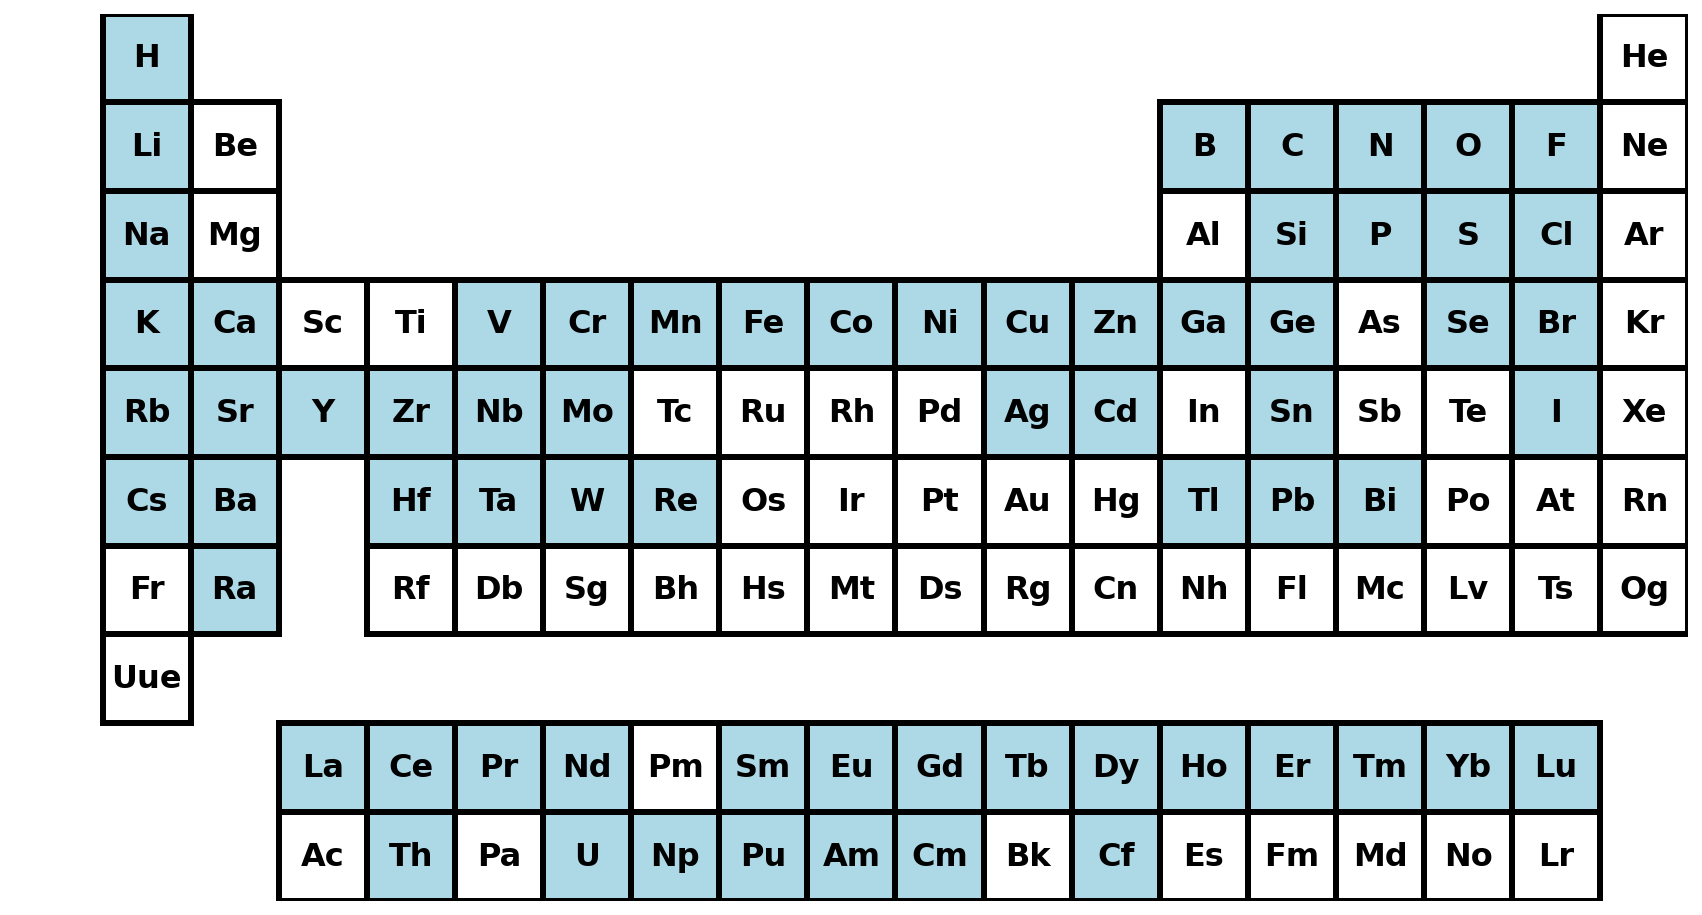
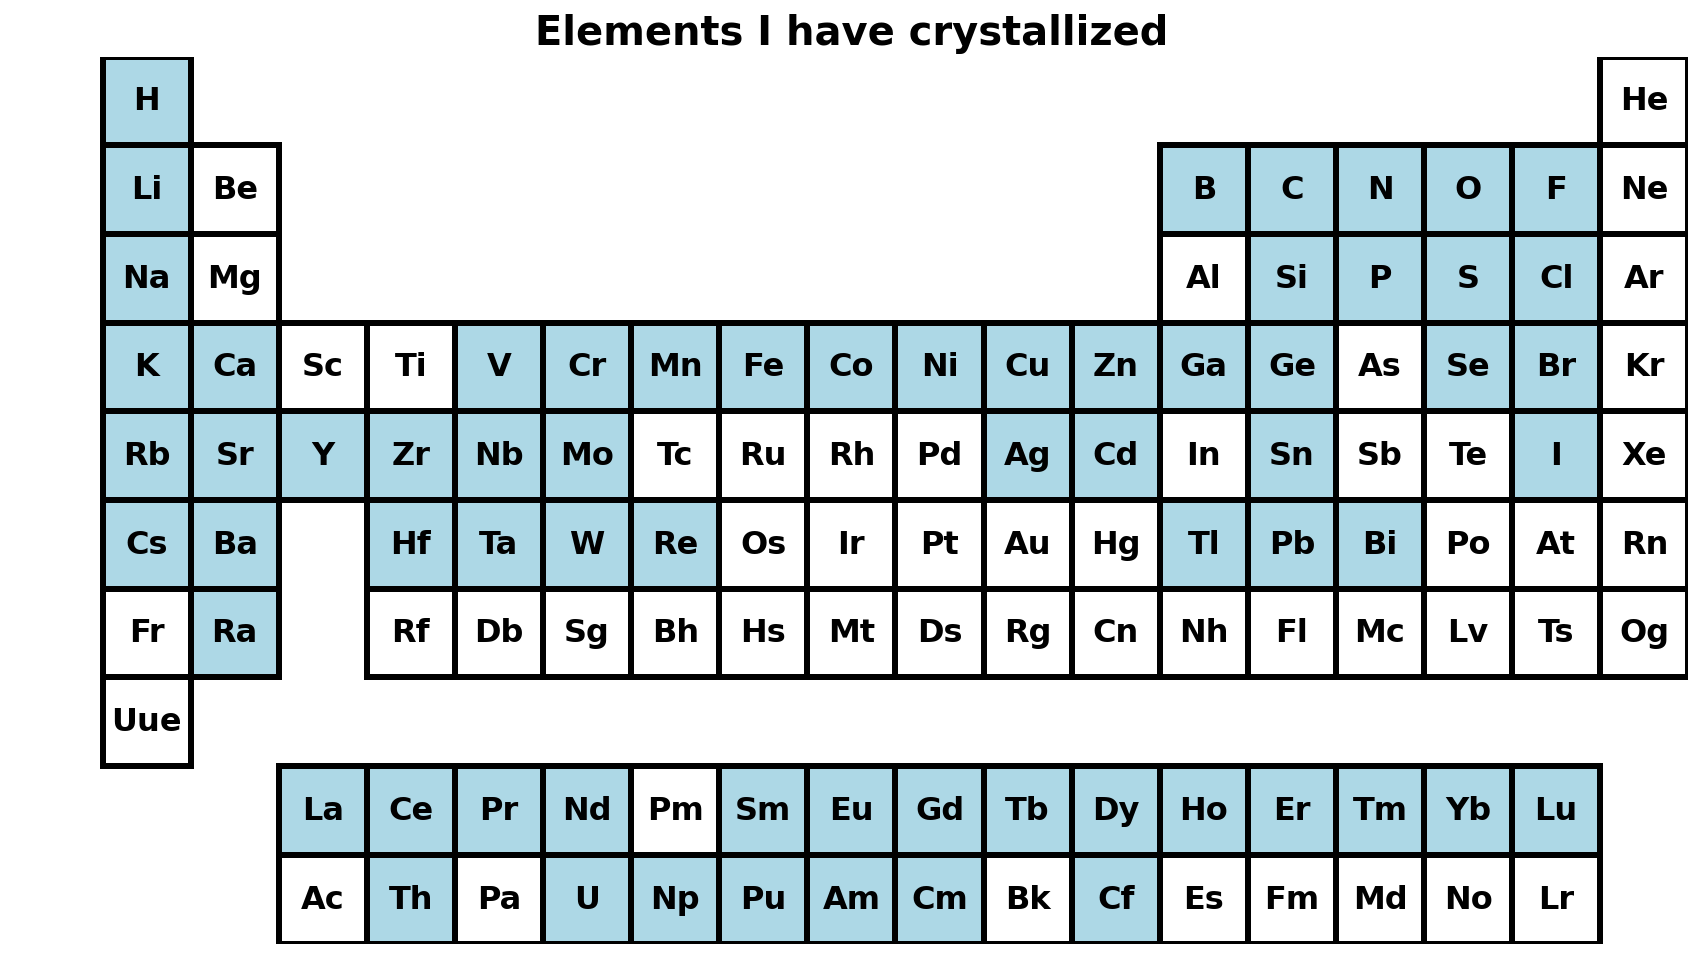
y

diff --git a/_pages/crystallography.md b/_pages/crystallography.md
@@ -16,6 +16,4 @@ Below are links to subpages top further explore my structures and the field.
 - [Record Holders](/crystallography/record/) – personal record breaking structures
 - [By Year](/crystallography/year/) – breakdown of the number of structures by year
 
-Elements I have crystallized!
-
 ![Elements I have crystallized](/Colliard-Research.github.io/images/Figure-pt.png)
